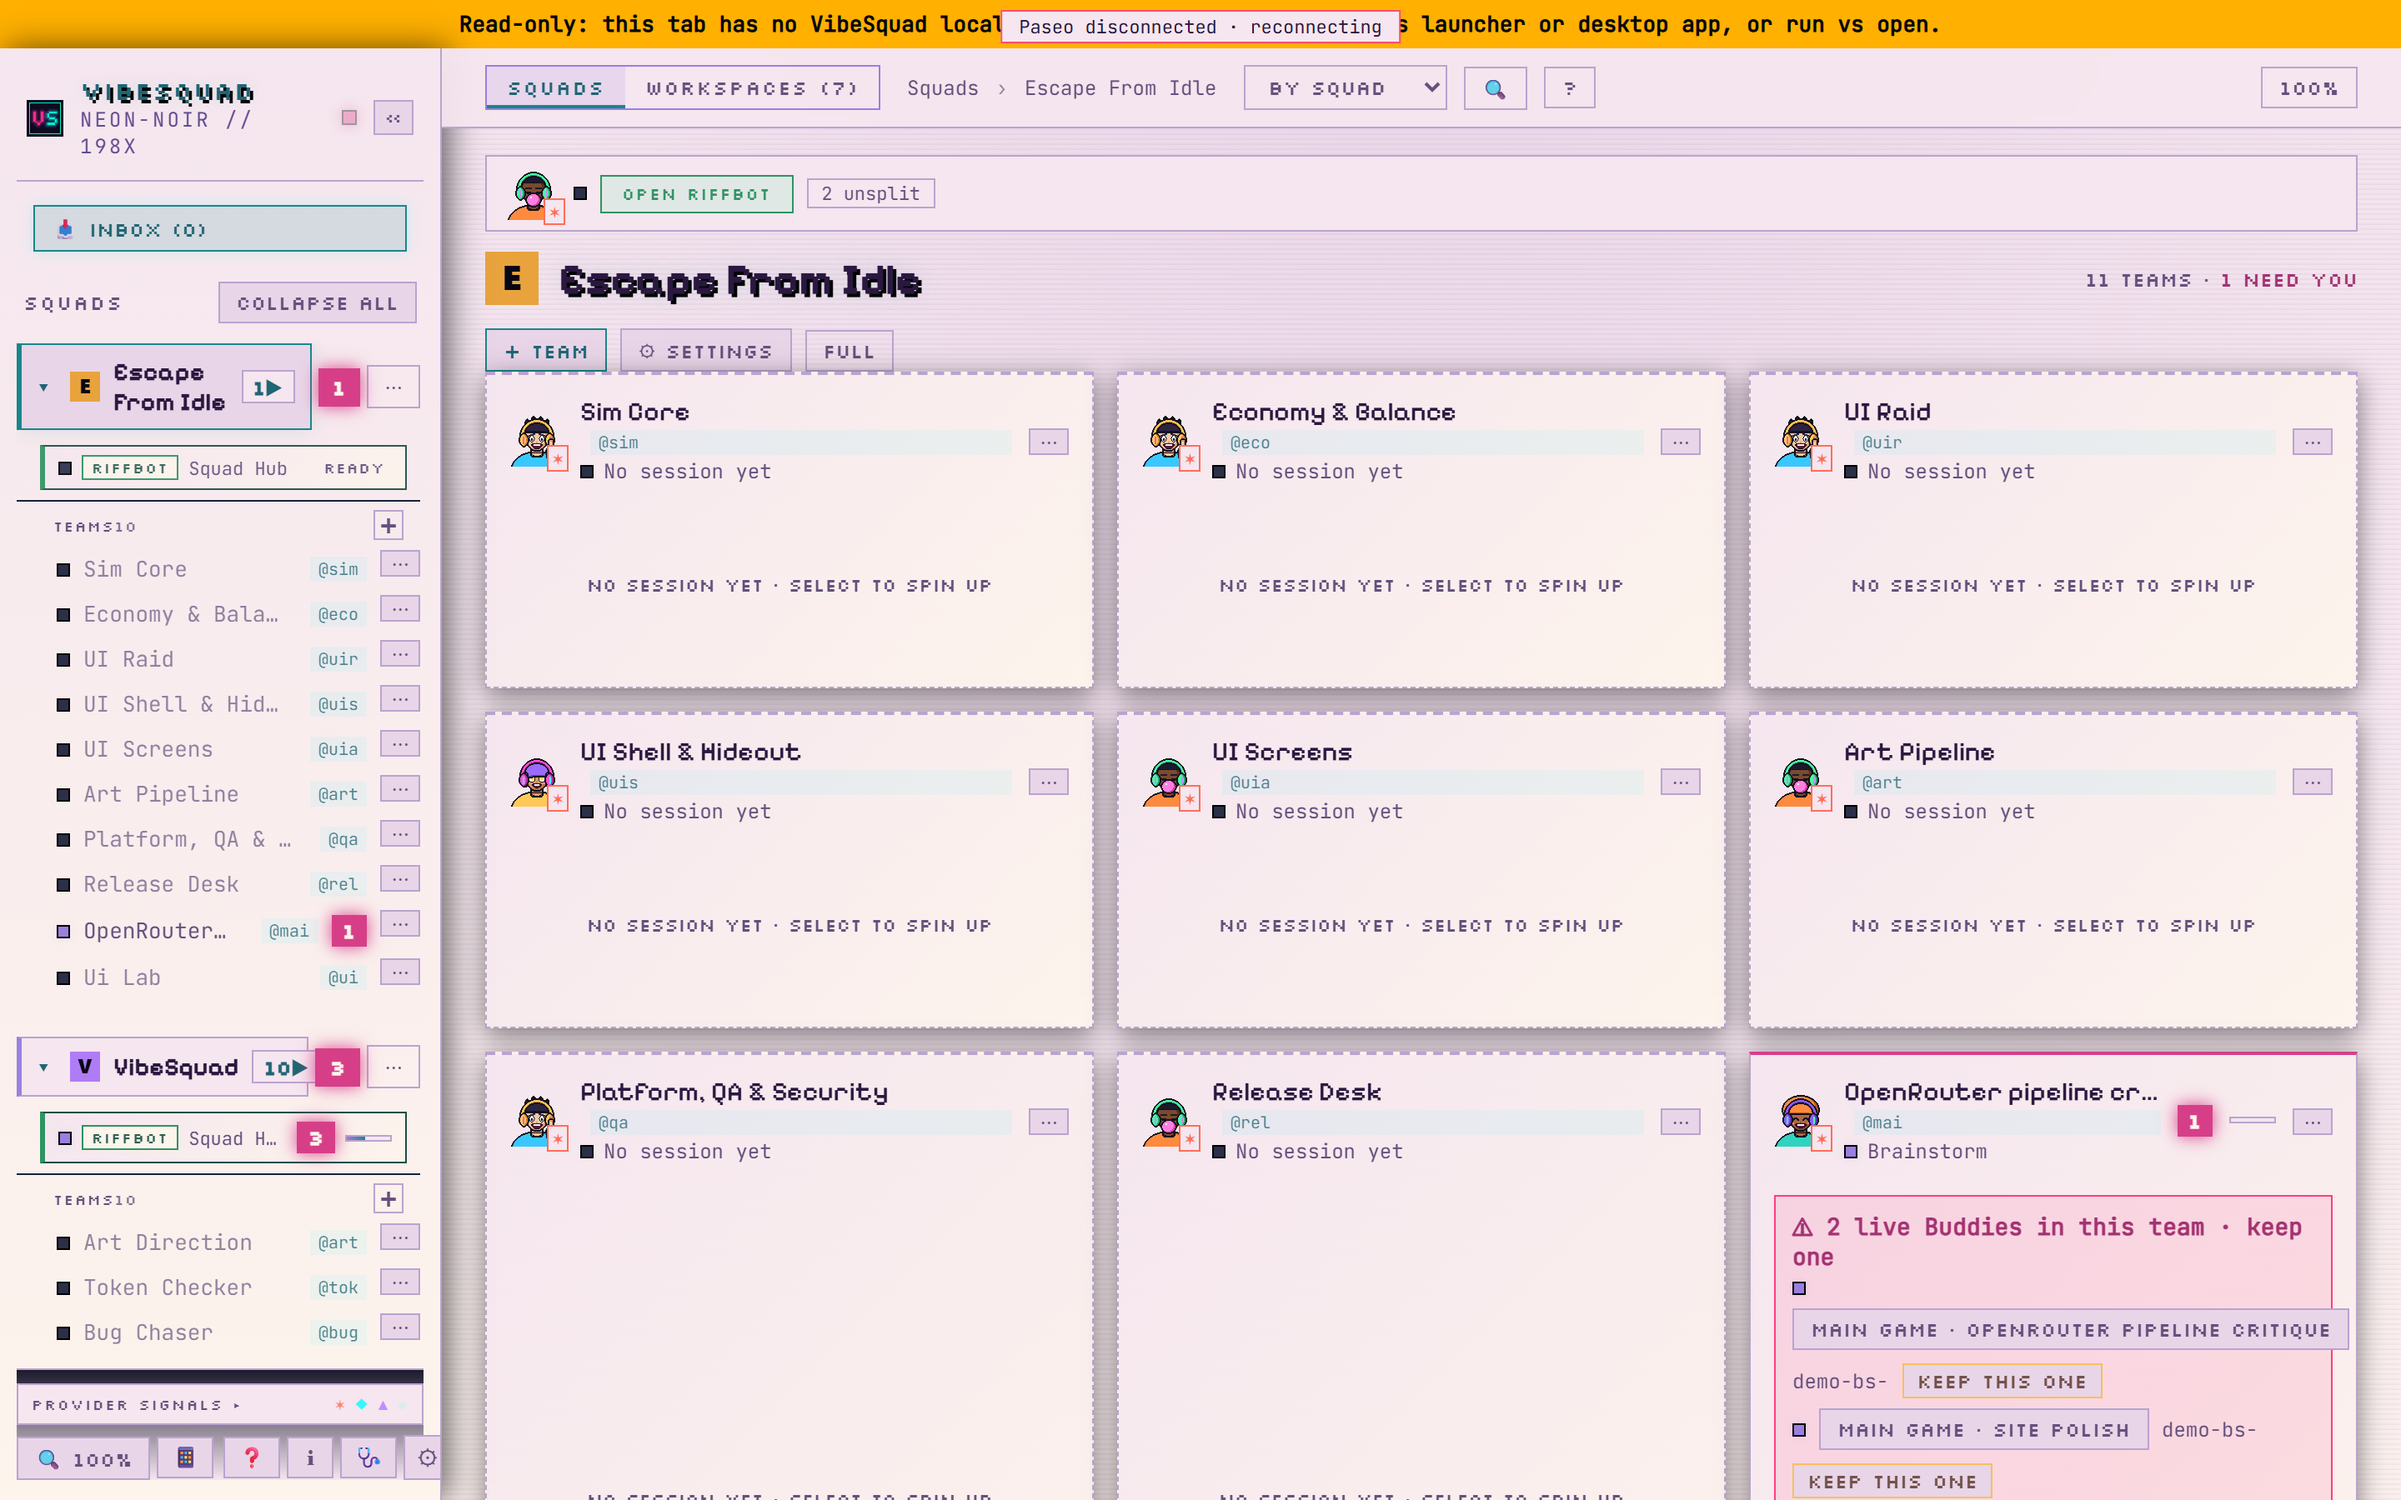
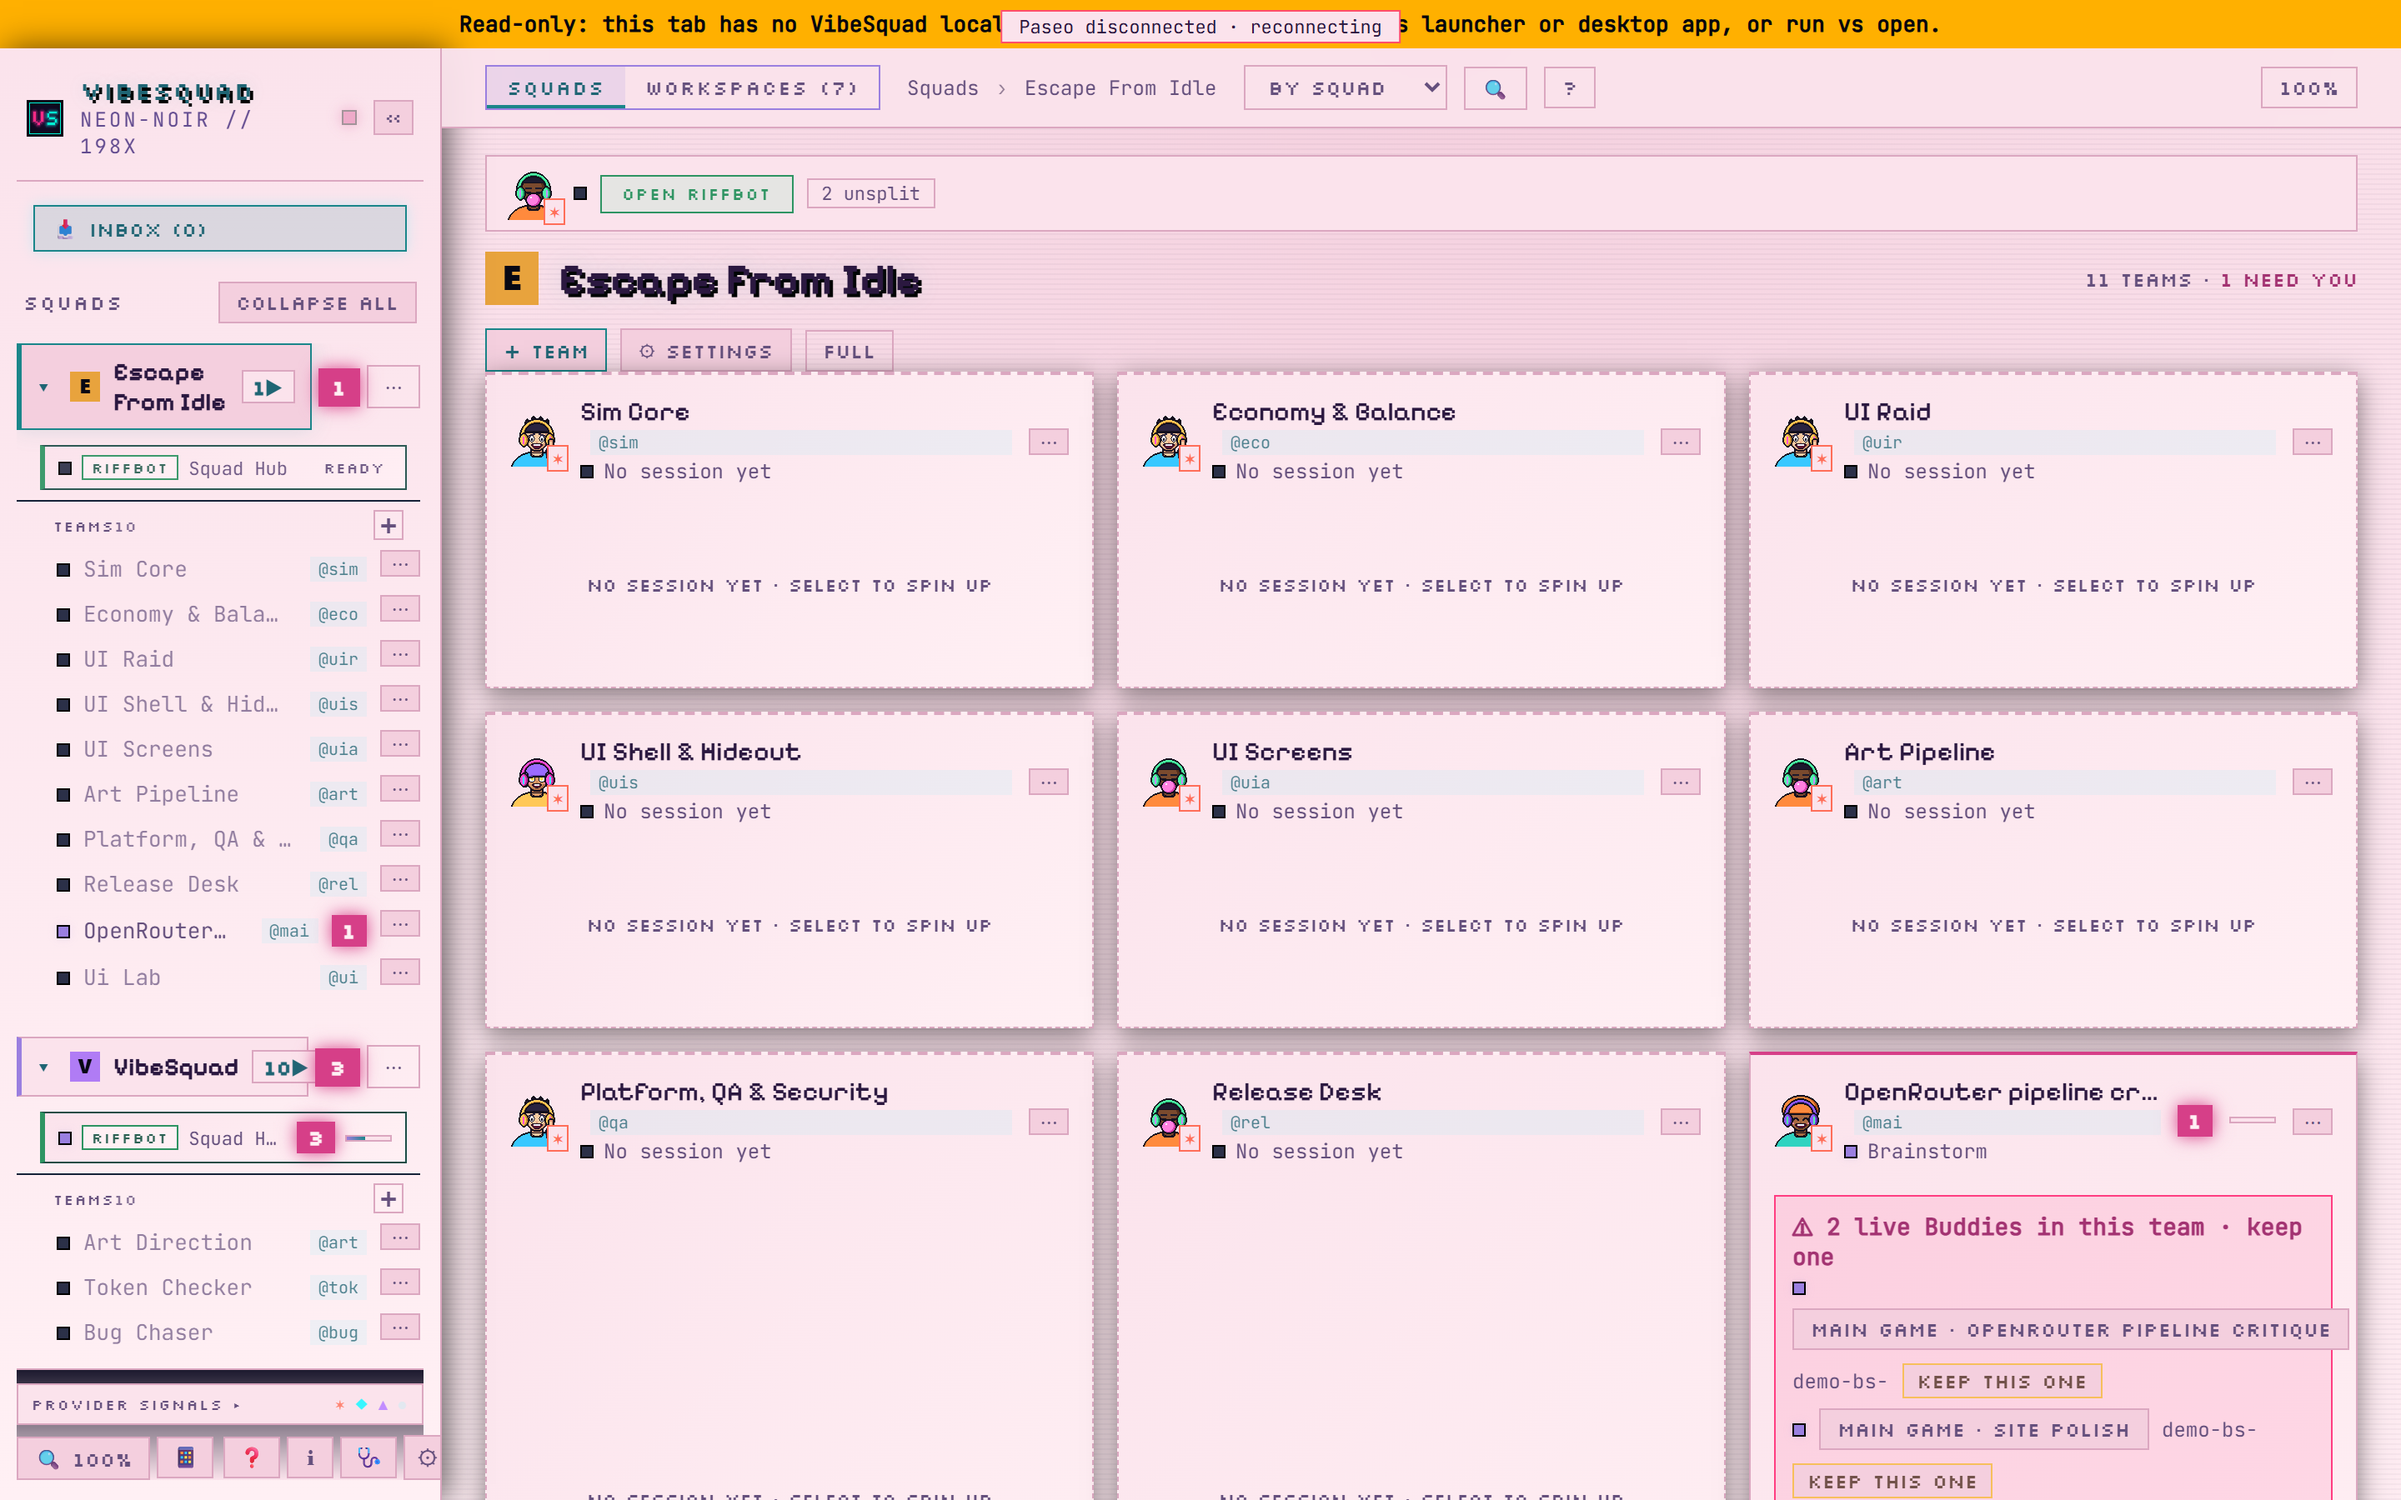
style(ui): light theme surfaces softer pink (bg/panel/line), text contrast >= 4.95:1 (@art U1)

Changed region(s): [[0.3125, 0.2178, 0.375, 0.2489]]

diff --git a/src/styles.css b/src/styles.css
@@ -48,13 +48,13 @@
 /* P0 "Pastel Morning". Teal/pink/mint ~3-4:1 here: borders, fills, icons; text uses the -t tokens. */
 :root[data-theme="light"] {
   color-scheme: light;
-  --bg: #fdf4ec;
-  --navy: #fdf4ec;
-  --well: #f5e6ef;
-  --panel: #f5e6ef;
-  --panel-hi: #e9d5e8;
-  --panel-alt: #e9d5e8;
-  --line: #bba3cf;
+  --bg: #fff0f4;
+  --navy: #fff0f4;
+  --well: #fbe3ec;
+  --panel: #fbe3ec;
+  --panel-hi: #f4cfde;
+  --panel-alt: #f4cfde;
+  --line: #dba7c0;
   --marble: #fffdfa;
   --cyan: #1a868a;
   --cyan-dim: #1a868a26;
@@ -65,7 +65,7 @@
   --hot-pink-dim: #d63f8830;
   --amber: #f7bf5c;
   --emerald: #2e9462;
-  --slate: #bba3cf;
+  --slate: #dba7c0;
   --text: #2b1840;
   --muted: #65507d;
   --cyan-t: color-mix(in srgb, var(--cyan) 70%, #2b1840);
